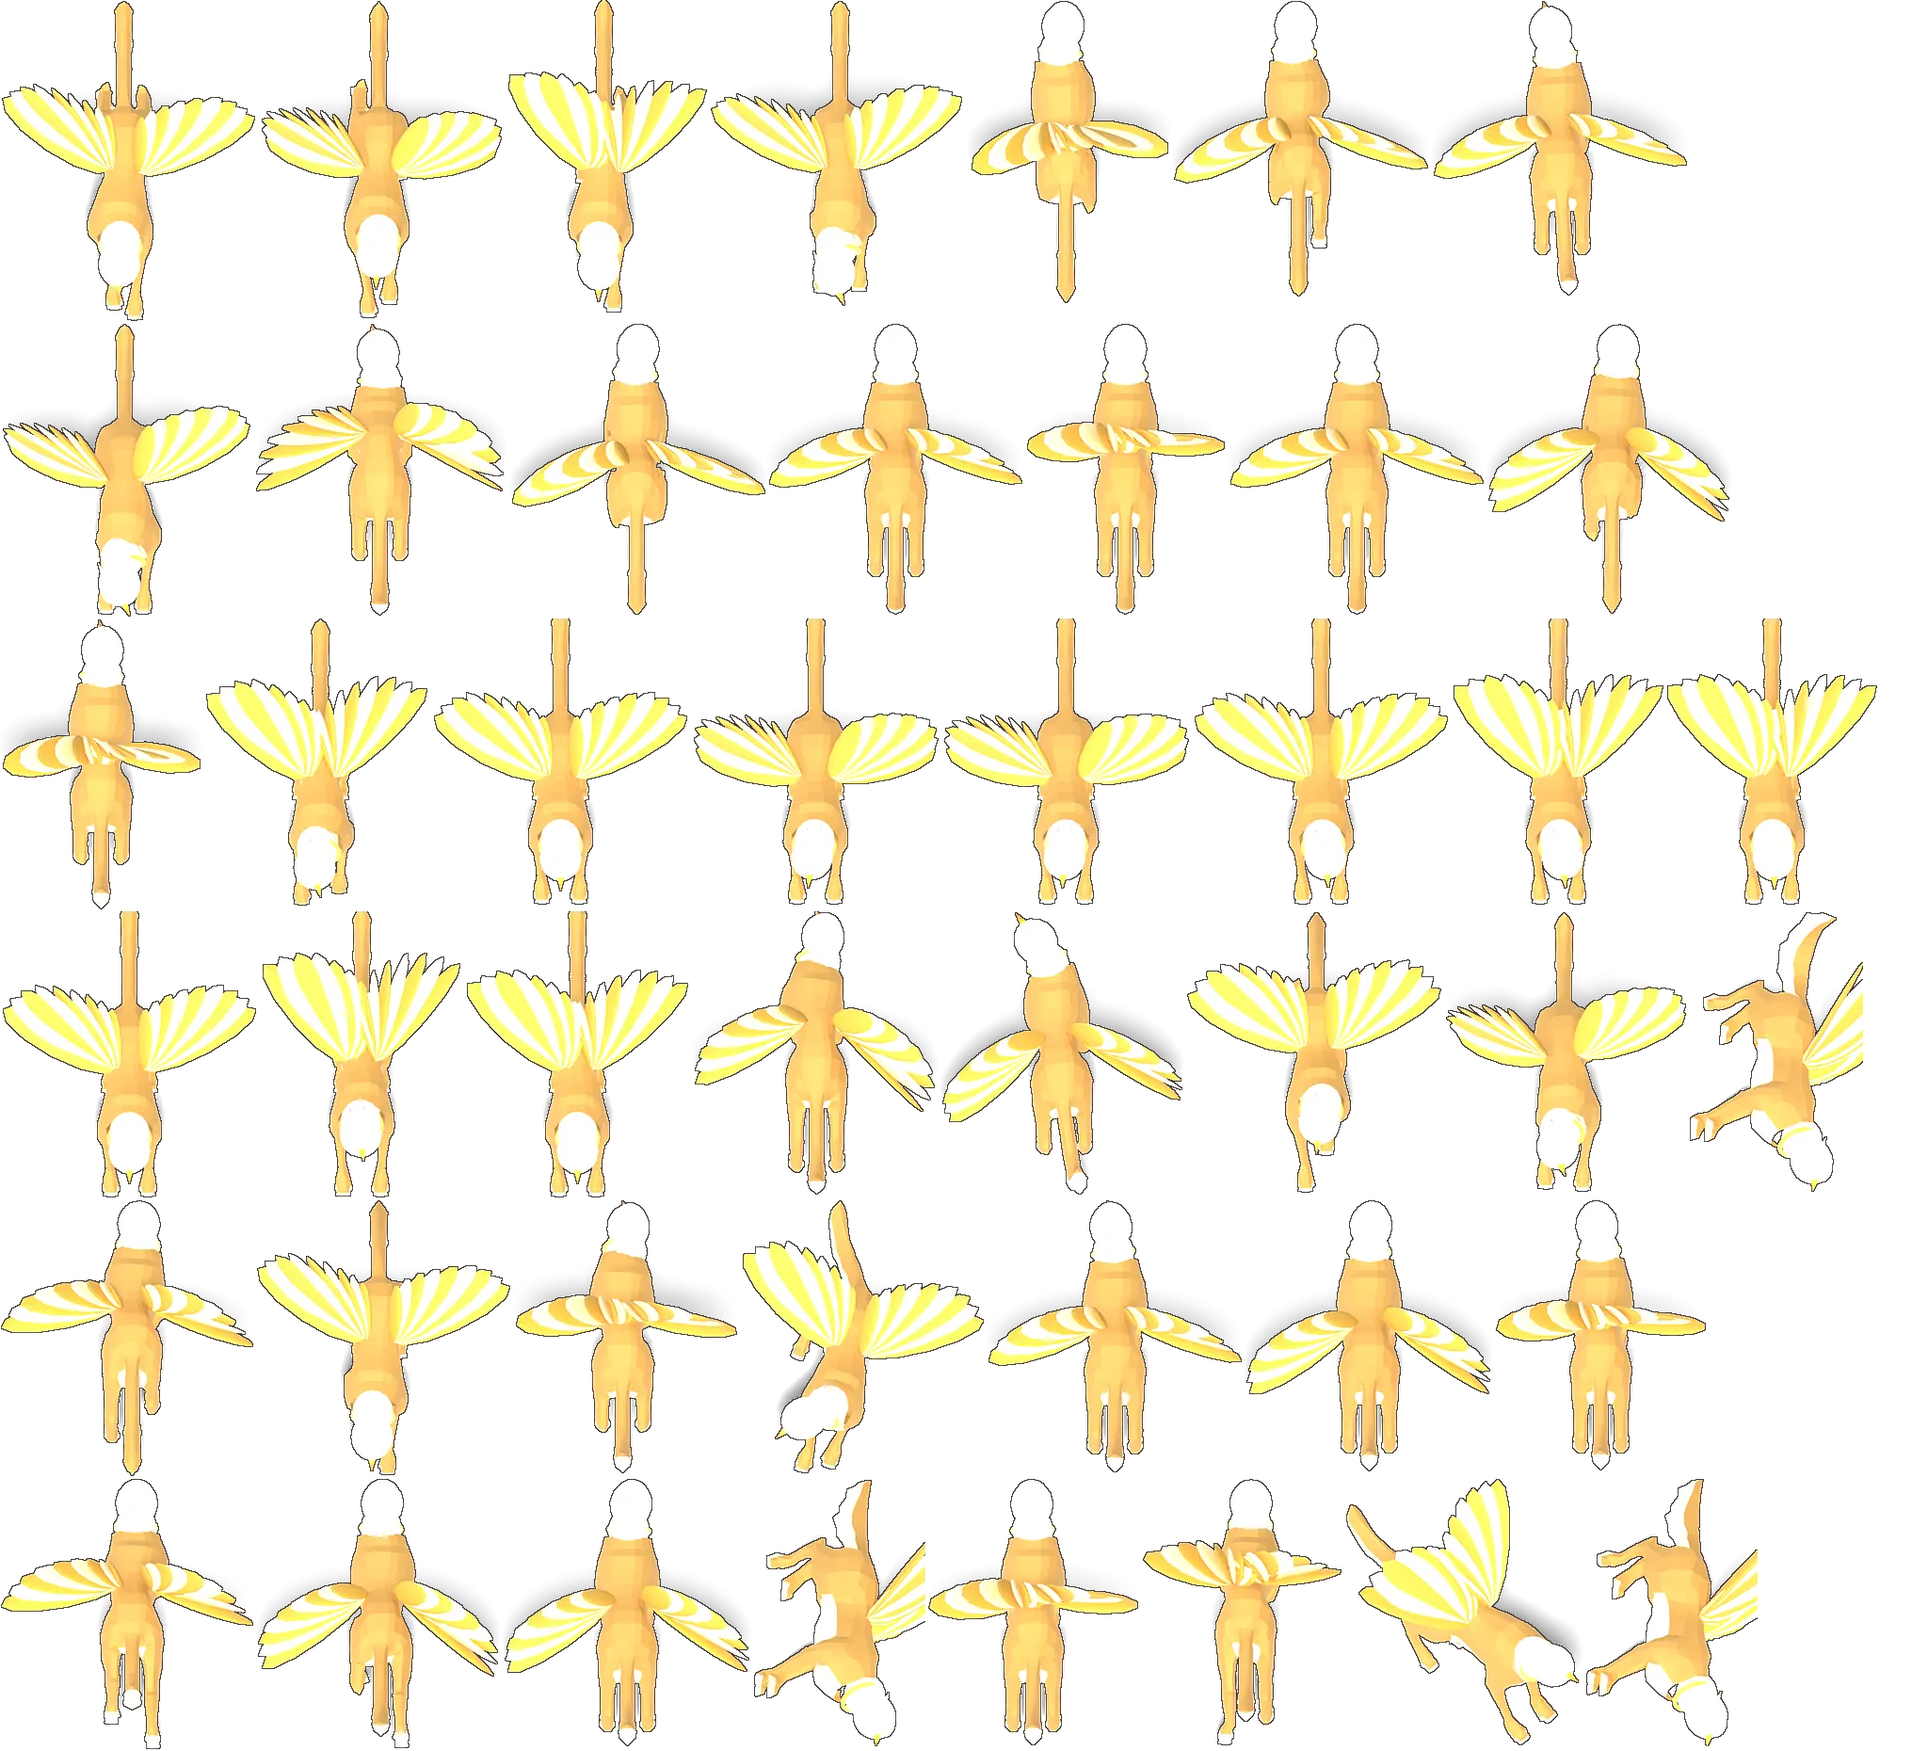
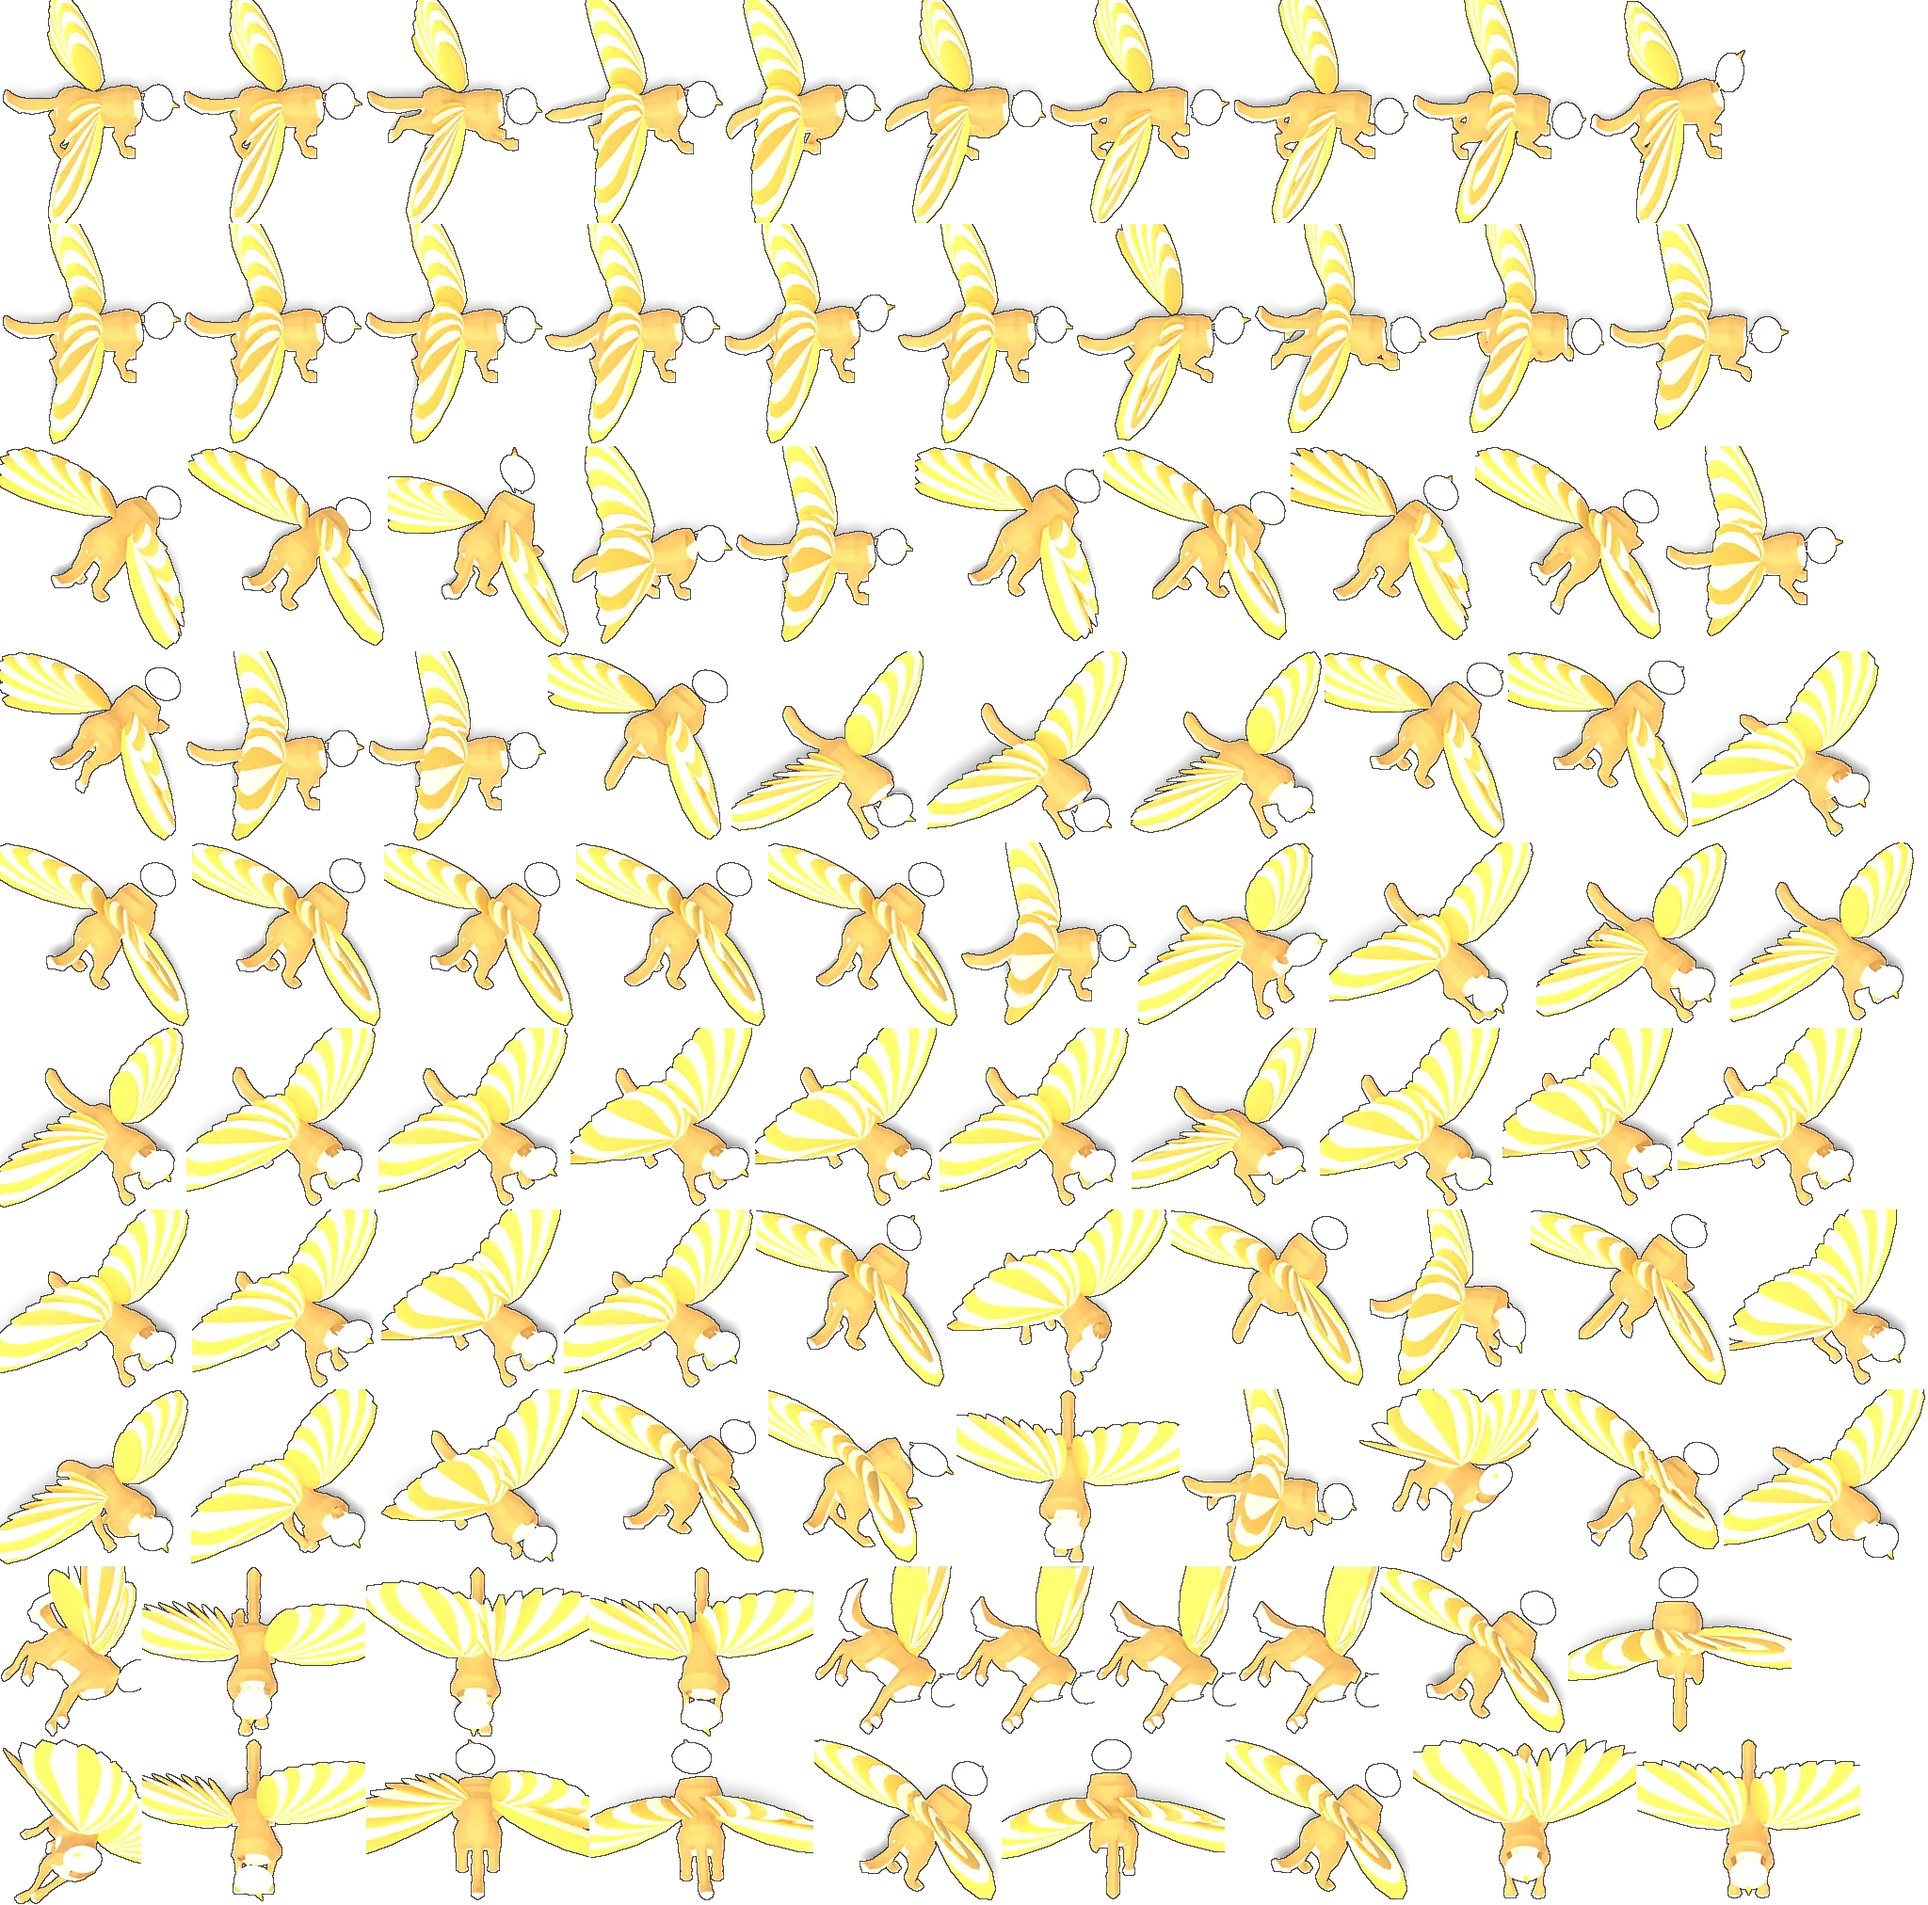
v17 wip: atlases royalGriffin ogre wolfRider

diff --git a/game3d.js b/game3d.js
@@ -124,9 +124,9 @@ async function buildPart(f,def,tint){const g=await loadG(f);const o=SkeletonUtil
     holder.scale.setScalar(p.len*H/(L*ws));bone.add(holder);}
   return {o,anims:g.animations};}
 // ---- pre-rendered sprites (?sprites=1): Blender-rendered 5-direction atlases (mirrored to 8) replace live 3D models ----
-const SPR_ON=/[?&]sprites=1/.test(location.search);const SPR={};const SPR_UNITS=['pikeman','halberdier','archer','marksman','griffin','royalGriffin','swordsman','crusader','monk','zealot','cavalier','champion','angel','archangel','skeleton','walkingDead','wight','vampire','lich','boneDragon','goblin','orc','behemoth','centaur','dwarf','woodElf','greenDragon','imp','gog','hellHound','demon'];const sprLoader=new THREE.TextureLoader();const SPR_V=17;
+const SPR_ON=/[?&]sprites=1/.test(location.search);const SPR={};const SPR_UNITS=['pikeman','halberdier','archer','marksman','griffin','royalGriffin','swordsman','crusader','monk','zealot','cavalier','champion','angel','archangel','skeleton','walkingDead','wight','vampire','lich','boneDragon','goblin','wolfRider','orc','ogre','behemoth','centaur','dwarf','woodElf','greenDragon','imp','gog','hellHound','demon'];const sprLoader=new THREE.TextureLoader();const SPR_V=17;
 // upgraded creatures reuse their base unit's atlas with a colour tint and a slightly larger scale (same approach as the 3D fallback)
-const SPR_K={griffin:0.5,royalGriffin:0.52,roc:0.6,thunderbird:0.6};const SPR_ALIAS={skeletonWarrior:['skeleton',0xc8d4ff],zombie:['walkingDead',0xc8e8a0],familiar:['imp',0xff9a7a],centaurCaptain:['centaur',0xd8e8c0],magog:['gog',0xffb070],powerLich:['lich',0xd0b0ff],ancientBehemoth:['behemoth',0xffb890],wraith:['wight',0xc0ccff],ghostDragon:['boneDragon',0xb8d8ff],orcChieftain:['orc',0xffe0b0],roc:['griffin',0xa08060],thunderbird:['griffin',0x90a0ff],grandElf:['woodElf',0xe8ffd8],cerberus:['hellHound',0xffb0a0],hornedDemon:['demon',0xffc8a0],hobgoblin:['goblin',0xffc48a],battleDwarf:['dwarf',0xffcfa0],vampireLord:['vampire',0xffc0c0],goldDragon:['greenDragon',0xffc840],blackDragon:['greenDragon',0x605868]};
+const SPR_K={griffin:0.5,royalGriffin:0.52,hellHound:0.6,cerberus:0.62,wolfRider:0.72,wolfRaider:0.74,roc:0.6,thunderbird:0.6};const SPR_ALIAS={skeletonWarrior:['skeleton',0xc8d4ff],zombie:['walkingDead',0xc8e8a0],familiar:['imp',0xff9a7a],centaurCaptain:['centaur',0xd8e8c0],magog:['gog',0xffb070],powerLich:['lich',0xd0b0ff],ancientBehemoth:['behemoth',0xffb890],wraith:['wight',0xc0ccff],ghostDragon:['boneDragon',0xb8d8ff],wolfRaider:['wolfRider',0xffe0c0],orcChieftain:['orc',0xffe0b0],ogreMage:['ogre',0xc8d0ff],cyclops:['ogre',0xd8e0c8],cyclopsKing:['ogre',0xffe0a0],roc:['griffin',0xa08060],thunderbird:['griffin',0x90a0ff],grandElf:['woodElf',0xe8ffd8],cerberus:['hellHound',0xffb0a0],hornedDemon:['demon',0xffc8a0],hobgoblin:['goblin',0xffc48a],battleDwarf:['dwarf',0xffcfa0],vampireLord:['vampire',0xffc0c0],goldDragon:['greenDragon',0xffc840],blackDragon:['greenDragon',0x605868]};
 function loadSpr(t){if(!SPR_ON)return null;if(SPR_ALIAS[t])return loadSpr(SPR_ALIAS[t][0]);if(!SPR_UNITS.includes(t))return null;return SPR[t]||(SPR[t]=fetch(`assets/spr/${t}.json?v=${SPR_V}`).then(r=>r.json()).then(m=>Promise.all(m.pages.map((_,i)=>new Promise((res,rej)=>sprLoader.load(`assets/spr/${t}_p${i}.webp?v=${SPR_V}`,res,undefined,rej)))).then(tx=>{for(const x of tx){x.colorSpace=THREE.SRGBColorSpace;x.anisotropy=4;}m.tex=tx;return m;})).catch(e=>{console.warn('spr',t,e);return null;}));}
 const shadowTex=(()=>{const c=document.createElement('canvas');c.width=c.height=64;const x=c.getContext('2d');const g=x.createRadialGradient(32,32,2,32,32,32);g.addColorStop(0,'rgba(0,0,0,.62)');g.addColorStop(0.5,'rgba(0,0,0,.36)');g.addColorStop(1,'rgba(0,0,0,0)');x.fillStyle=g;x.fillRect(0,0,64,64);return new THREE.CanvasTexture(c);})();
 const shadowMat=new THREE.MeshBasicMaterial({map:shadowTex,transparent:true,depthWrite:false});const shadowGeo=new THREE.PlaneGeometry(1,1);shadowGeo.rotateX(-Math.PI/2);
